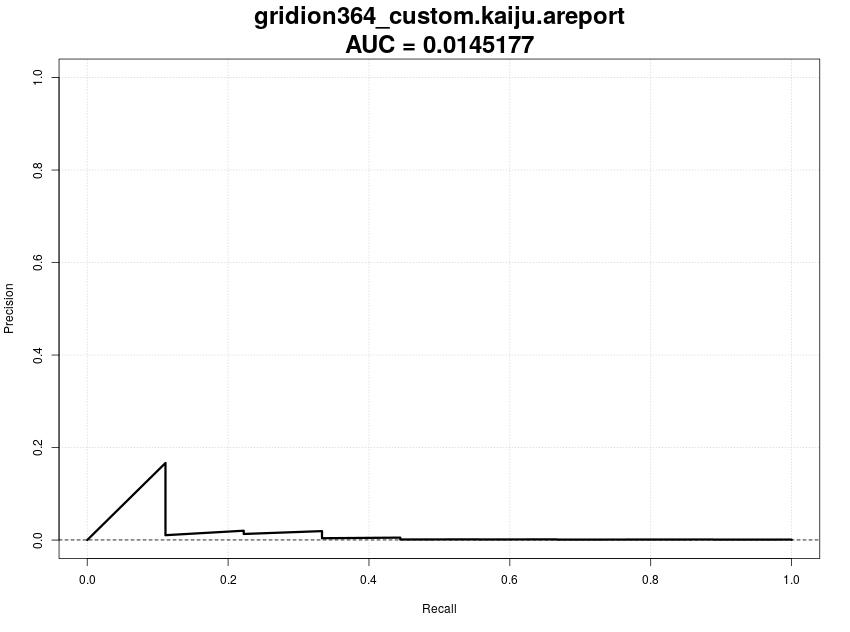
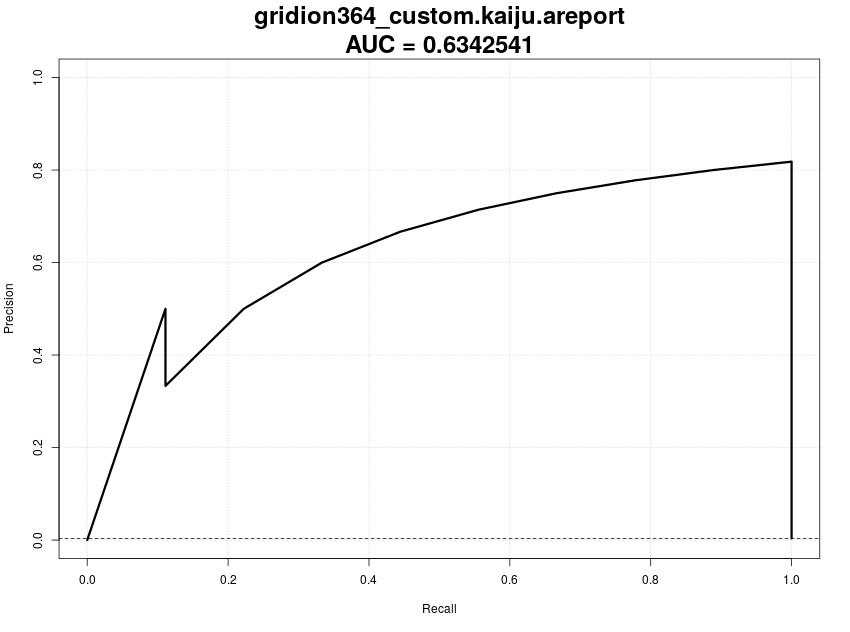
protocol

diff --git a/scripts/getting.py b/scripts/getting.py
@@ -14,7 +14,7 @@ def get_species(config): # expected species in sample
     else:
         print('Error! No config file', config)
 
-config='config.yaml' #'/home/kirscheeh/university/projectCLASSIFICATION/classificationBenchmark/config.yaml' #
+config='/home/kirscheeh/university/projectCLASSIFICATION/classificationBenchmark/config.yaml' #'config.yaml' #
 species = get_species(config)
 
 def get_path(config): #get path to working directory
@@ -196,6 +196,37 @@ def calc_accuracy(tp, fp, tn, fn):
     except ZeroDivisionError as e:
         return 0
 
+def get_tpr(tp,fp,tn,fn): #true positive rate
+    try:
+        return tp/(tp+fn)
+    except ZeroDivisionError as e:
+        return 0
 
+def get_tnr(tp,fp,tn,fn): #true negative rate
+    try:
+        return tn/(tn+fp)
+    except ZeroDivisionError as e:
+        return 0
 
+def get_balancedAcc(tpr, tnr):
+    return tpr+tnr/2
+
+def get_prediction(report, th):
+    data=[]
+    with open(report, 'r') as report:
+        lines = report.readlines()
+        for line in lines:
+            line=line.split("\t")
+
+            if line[2]=="S":
+                if line[4].split("\n")[0] in species and float(line[0])>=0.1:  
+                    data.append(1)
+                else:
+                    data.append(0)
+    return data 
+
+report=sys.argv[1]
+#config=sys.argv[2]
+tp, fp, tn, fn = calc_matrixOfConfusion(prediction=get_prediction(report, 0.1), groundTruth=get_groundTruth(report))
+print(get_balancedAcc(get_tpr(tp, fp, tn, fn), get_tnr(tp, fp, tn, fn)))
 

diff --git a/protocol/protocol.md b/protocol/protocol.md
@@ -4,19 +4,19 @@
 # Material and Methods
 ## Data
 The present dataset consists of four samples of the underlying ZymoBIOMICS Microbial Community Standards CS and CSII ([ZymoEven](https://www.zymoresearch.de/collections/zymobiomics-microbial-community-standards/products/zymobiomics-microbial-community-standard "Zymo Research Corporation, Irvine, CA, USA. Product D6300, Lot ZRC190633"), [ZymoLog](https://www.zymoresearch.de/collections/zymobiomics-microbial-community-standards/products/zymobiomics-microbial-community-standard-ii-log-distribution "Zymo Research Corporation, Irvine, CA, USA. Product D6310, Lot ZRC190842"), [DataPaper](https://doi.org/10.1093/gigascience/giz043 "Nicholls, S. M., Quick, J. C., Tang, S., & Loman, N. J. (2019). Ultra-deep, long-read nanopore sequencing of mock microbial community standards. Gigascience, 8(5), giz043.")). Those mock communities are composed of ten microbial species, eight bacteria and two fungi (Table 1). Each of these two standards is sequenced with GridION and PromethION, resulting in four samples, two for each standard. 
-|      Name                    	|       Taxonomic ID        	| CS EVEN                	|                         	| CS LOG                 	|
-|--------------------------	|--------------	|------------------------	|-------------------------	|------------------------	|
+|      Name                    	|Type|       Taxonomic ID        	| CS EVEN                	|                         	| CS LOG                 	|
+|--------------------------	|--------------	|------|------------------------	|-------------------------	|------------------------	|
 |                      	| 	| Expected Abundancy (%) 	| Estimated Abundance (%) 	| Expected Abundancy (%) 	|
-| *Bacillus subtilis*        	| 1423         	| 12                     	| 19.32 (19.02)           	| 0.89                   	|
-| *Listeria monocytogenes*   	| 1639         	| 12                     	| 14.56 (14.33)           	| 89.1                   	|
-| *Enterococcus faecalis*    	| 1351         	| 12                     	| 12.24 (12.07)           	| 0.00089                	|
-| *Staphylococcus aureus*    	| 1280         	| 12                     	| 11.28 (11.11)           	| 0.000089               	|
-| *Salmonella enterica*      	| 28901        	| 12                     	| 9.99 (10.32)            	| 0.089                  	|
-| *Escherichia coli*         	| 562          	| 12                     	| 9.93 (10.26)            	| 0.089                  	|
-| *Pseudomonas aeruginosa*   	| 287          	| 12                     	| 9.7 (10.11)             	| 8.9                    	|
-| *Lactobacillus fermentum*  	| 1613         	| 12                     	| 9.28 (9.13)             	| 0.0089                 	|
-|  *Saccharomyces cerevisiae* 	| 4932         	| 2                      	| 1.92 (1.87)             	| 0.89                   	|
-| *Cryptococcus neoformans*  	| 5207         	| 2                      	| 1.78 (1.77)             	| 0.00089                	|
+| *Bacillus subtilis*        | Gram+	| 1423         	| 12                     	| 19.32 (19.02)           	| 0.89                   	|
+| *Listeria monocytogenes*   |Gram+	| 1639         	| 12                     	| 14.56 (14.33)           	| 89.1                   	|
+| *Enterococcus faecalis*    |Gram+	| 1351         	| 12                     	| 12.24 (12.07)           	| 0.00089                	|
+| *Staphylococcus aureus*    |Gram+	| 1280         	| 12                     	| 11.28 (11.11)           	| 0.000089               	|
+| *Salmonella enterica*      |Gram-	| 28901        	| 12                     	| 9.99 (10.32)            	| 0.089                  	|
+| *Escherichia coli*         |Gram-	| 562          	| 12                     	| 9.93 (10.26)            	| 0.089                  	|
+| *Pseudomonas aeruginosa*   |Gram-	| 287          	| 12                     	| 9.7 (10.11)             	| 8.9                    	|
+| *Lactobacillus fermentum*  |Gram+	| 1613         	| 12                     	| 9.28 (9.13)             	| 0.0089                 	|
+|  *Saccharomyces cerevisiae*|Yeast 	| 4932         	| 2                      	| 1.92 (1.87)             	| 0.89                   	|
+| *Cryptococcus neoformans*  |Yeast	| 5207         	| 2                      	| 1.78 (1.77)             	| 0.00089                	|
 
 ***Tabel 1: General information about the used species.*** This table shows the different species included in the mock communities with their taxonomic ID and expected as well as estimated proportion of genome. Note that the CS Even samples have differen measured proportions for GridION (PromethION) that expected. There is no information about the measured proportions for CS Log. The information are gathered from [DataPaper](https://doi.org/10.1093/gigascience/giz043 "Nicholls, S. M., Quick, J. C., Tang, S., & Loman, N. J. (2019). Ultra-deep, long-read nanopore sequencing of mock microbial community standards. Gigascience, 8(5), giz043."), [ZymoEven](https://www.zymoresearch.de/collections/zymobiomics-microbial-community-standards/products/zymobiomics-microbial-community-standard "Zymo Research Corporation, Irvine, CA, USA. Product D6300, Lot ZRC190633") and [ZymoLog](https://www.zymoresearch.de/collections/zymobiomics-microbial-community-standards/products/zymobiomics-microbial-community-standard-ii-log-distribution "Zymo Research Corporation, Irvine, CA, USA. Product D6310, Lot ZRC190842").<br> <br>
 
@@ -45,7 +45,7 @@ Every tool is used on two different databases: The default database describes th
 |   Diamond    | 2.0.5      | Protein |        Alignment        | full Proteome Bacteria|http://www.diamondsearch.org/index.php |
 |     Kaiju    |    1.7.4        | Protein |   FM-Index, Alignment  |refseq |              http://kaiju.binf.ku.dk/               |
 |   CCMetagen  |    1.2.3        |   DNA   |*k*-mer, Alignment (KMA)| refseq |     https://github.com/vrmarcelino/CCMetagen       |
-|  Centrifuge  |    1.0.4        |   DNA   |         FM-Index       | complete genomes|https://ccb.jhu.edu/software/centrifuge/manual.shtml |
+|  Centrifuge  |    1.0.4        |   DNA   |         FM-Index       | refseq|https://ccb.jhu.edu/software/centrifuge/manual.shtml |
 |     CLARK    |    1.2.5        |   DNA   |      (spaced) *k*-mer  | refseq |         http://clark.cs.ucr.edu/Overview/          |
 |    Kraken2   | 2.0.7-beta      |   DNA   |          *k*-mer          |-|         http://ccb.jhu.edu/software/kraken2/         |
 |BugSeq| v1 | DNA | Pipeline?? |-| https://bugseq.com/free |
@@ -112,7 +112,7 @@ The custom database using the refseq of bacteria and fungi need to be created wi
 #### Centrifuge
 Centrifuge [Centrifuge](https://doi.org/10.1101%2Fgr.210641.116 "Kim, D., Song, L., Breitwieser, F. P., & Salzberg, S. L. (2016). Centrifuge: rapid and sensitive classification of metagenomic sequences. *Genome research*, 26(12), 1721-1729.") is a classification tool for metagenomic microbial data. This FM-Index-based approach searches for forward and reverse complements of the given input reads in the corresponding database of species. If a match with a given seed length is found, that region is expanded until a mismatch is found. <br>
 The used indices are downloaded from their [website](https://genome-idx.s3.amazonaws.com/centrifuge/p\_compressed_2018_4\_15.tar.gz) as of 15/01/2021. <br>
-The custom database can be created with the following command, where <tt>prefix</tt> is the prefic the index files will carry. The <tt>seqid2taxid.map</tt> file generated from Kraken2 during databse building is used. This spares the download of all sequences that should be included in the index.
+The custom database can be created with the following command, where <tt>prefix</tt> is the prefic the index files will carry. The <tt>seqid2taxid.map</tt> file generated from Kraken2 during database building is used. This spares the download of all sequences that should be included in the index.
 
     centrifuge-build -p {threads} --conversion-table {seqid2taxid.map} --taxonomy-tree {nodes.dmp} --name-table {names.dmp} {input.fna} {prefix}
 
@@ -240,21 +240,22 @@ The missing fungal sequences in the databases do not interfere with the precisio
 
 ***Table XYZ.*** This table shows the calculated Area under Precision Recall Curve for the different tools and samples using their default database. Note that CCMetagen and Diamond are not able to perform on the PromethION samples, therefore those values are missing. There is no trend to be observed regarding the AUPR and different sequencing depths. However, some tools seem to perform better with the CS Even samples (e.g. Diamond, Centrifuge, Kraken2), whereas Kaiju, CCMetagen and Clarks seem to perform better for the CS Log samples.
 
-
 |                	| Diamond   	| Kaiju     	| CCMetagen 	| Centrifuge 	| Clark     	| Kraken2   	|
 |----------------	|-----------	|-----------	|-----------	|------------	|-----------	|-----------	|
-| GridION 364    	| 0.6477213 	|  	|  	| 0.4535386     |  	| 0.6531318       	|
-| PromethION 365 	|           	|  	|           	| 0.4465851     |  	| 0.6342541       	|
-| GridION 366    	|           	|  	|  	| 0.3934339  	| | 0.6348088 	|
-| PromethION 367 	|           	|  	|           	| 0.3556934  	|  	| 0.658239 	|
+| GridION 364    	| 0.6477213 	|  0.6342541	|           	| 0.4535386     |           	| 0.6531318   	|
+| PromethION 365 	|           	|  0.355438	    |           	| 0.4465851     |           	| 0.6342541   	|
+| GridION 366    	|           	|  0.6342541 	|            	| 0.3934339  	|               | 0.6348088 	|
+| PromethION 367 	|           	|  0.4490638	|           	| 0.3556934  	|            	| 0.658239   	|
 
-***Table XYZ.*** !!!.
+***Table XYZ_2.*** This table shows the calculated Area under Precision Recall Curve for the different tools and samples using their custom database. Note that CCMetagen and Diamond are not able to perform on the PromethION samples, therefore those values are missing. !!!
 
-Considering the default database, it is visible that Centrifuge and Kraken2 do not reach the results of a perfect classifier anymore. The AUPR for the CS Even samples approach the AUPR for the CS Log samples!!!
+Considering the custom database, it is visible that Centrifuge and Kraken2 do not reach the results of a perfect classifier anymore. The AUPR for the CS Even samples approaches the AUPR for the CS Log samples. The average AUPR for all samples classified with Kraken2 is 0.645108425, whereas the average AUPR for the default database is higher with 0.842257075 (Table XYZ_2). The AUPR for Centrifuge shows a greater difference of 0.4 between default and custom database (0.80500625 and 0.41231275). Since the only change is the underlying database, this might be the reson for the poorer results. There might be more sequences to check against than in their default databases which leads to less accuracy. Although Kraken2 and Centrifuge do use refseq sequences in their corresponding default databases, the date of the index/database making might influence the known/included sequences. The index for Centrifuge ist from 2018, whereas the Kraken2 database seems to be from 2019. <br> 
+This explanation only partly fits for Diamond and Kaiju as well, because the bacterial proteome sequences are the same, just the fungal proteome is added to the databases. Although Diamond achieves less, Kaiju is able to achieve higher values for the CS Log samples. The CS Even samples result in smaller values (0.634 and 0.355 instead of 0.725 and 0.57 for GridION 264 and PromethION 265, respectively).
+
+<!-- The average balanced accuracy for Kraken2 for example is 1.0 and 0.83 respectively. <br> -->
 
 
-
-It has to be considered that only one dataset is not enough to access the results of the classification tools.
+It has to be considered that only one dataset is not enough to fully access the results of the classification tools.
 ### Abundance Profile Similarity
 | Classified Species 	| *B. subtilis*          	| *L. monocytogenes*     	| *E. faecalis*          	| *S. aureus*            	| *S. enterica*           	| *E. coli*               	| *P. aeruginosa*         	| *L. fermentum*        	| *S. cerevisiae*        	| *C. neoformans*         	|
 |--------------------	|----------------------	|----------------------	|----------------------	|----------------------	|-----------------------	|-----------------------	|-----------------------	|---------------------	|----------------------	|-----------------------	|
@@ -331,10 +332,10 @@ Centrifuge performed a slower which might be explained with the greater number o
 
 |            	| kma            	| ccmetagen      	| clark          | centrifuge           	| kaiju          	    | kraken2        	| diamond                 	|
 |------------	|----------------	|----------------	|--------------- |----------------      	|----------------    	|----------------	|-------------------------	|
-| gridion364 	|                	|                	| 	             | 5:09:32.420430       	| 3:05:24.622132 	    | 0:12:03.455402 	|         -                	|       	
-| gridion366 	|                	|                	|                | 5:31:10.976138       	|               	    | 0:12:31.477754 	|          	|       	
-| promethion365 |            -    	|                -	|                | 2 days, 6:49:22.551248   |                       | 1:26:16.939620    |         -                	|       	
-| promethion367 | -                 |-                  |                | 2 days, 3:59:35.103469   |                       |1:29:48.305022     |-                          |
+| gridion364 	|                	|                	| 	             | 5:09:32.420430       	| 3:05:24.622132 	    | 0:12:03.455402 	|  2 days, 17:38:23.548931               	|       	
+| gridion366 	|                	|                	|                | 5:31:10.976138       	| 3:12:15.641435        | 0:12:31.477754 	|          	|       	
+| promethion365 |            -    	|                -	|                | 2 days, 6:49:22.551248   | 1 day, 7:11:14.124467 | 1:26:16.939620    |         -                	|       	
+| promethion367 | -                 |-                  |                | 2 days, 3:59:35.103469   | 1 day, 3:12:06.381124 |1:29:48.305022     |-                          |
 
 ***Table Time 2: Overview of time consumption for the custom runs.*** Time is given  as hh:mm:ss and if needed, the number of days is stated explicitly in front. Cells with a dash symbolize runs that did start or took unreasonable much time to start. The time benchmarks can be found in /mnt/fass1/kirsten/result/classification/benchmarks/custom. <br> <br>
 
@@ -347,12 +348,12 @@ Although the runtime of Diamond is comparably worse, the time for database creat
 |---------	|-----	|-------	|------------------------	|--------------------	|---------	|----------------	|
 | runtime 	|     	|       	| 1 day, 14:04:24.423278 	| 0:58:52.067620     	|    ???    | 0:23:52.417193 	|
 
-***Table Time32: Overview of time consumption database creation.*** Time is given  as hh:mm:ss and if needed, the number of days is stated explicitly in front.The time benchmarks can be found in /mnt/fass1/kirsten/result/classification/benchmarks/databases. <br> <br>
+***Table Time32: Overview of time consumption database creation.*** Time is given  as hh:mm:ss and if needed, the number of days is stated explicitly in front. The time benchmarks can be found in /mnt/fass1/kirsten/result/classification/benchmarks/databases. <br> <br>
 
 The runtime of BugSeq can not be evaluated accordingly since the cloud service offers no information about the time the classification needed and no custom database is build.
 
 ## Multi Locus Sequence Typing
-The following don't consider MLST for *Saccharomyces cerevisiae* since no fitting explicit MLST scheme could be found. <br>
+The following don't consider MLST for *Saccharomyces cerevisiae* since no fitting explicit MLST scheme could be found, no paper published sequence fragments and no database included the species. <br>
 
 Blasting the housekeeping-genes against the samples revealed for each of the chose genes in evey species at least one hit. The sequence identities for GridION364 range from 88.831% to 99.045% with an average hit length of 468 nt. The hit lengths vary from 311 to 645. The greatest e-value is 7.83e-171, the majority of values is 0.0. <br>
 Considering the other CS Even sample, PromethION 365, the MLST blast shows sequences identities from 90.13% to 99.52% with an average hit length of 467 nt,which is similar to the hit length for GridION 364. The lengths vary from 308 nt to 642 nt. The average e-value is similar small with 2.200078e-143. <br>
@@ -426,6 +427,9 @@ The CS Log samples are similar as well.  Kaiju is able to assign 57.905% and 58.
 
 ***Figure 4: Classification Results for Kaiju, CS Log, Default Database*** <br> <br>
 
+Using the custom database, Kaiju achieves poorer results. Using the defaultn database results in classification of all bacterial species, this is not achieved with the custom database. For GridION 364, 64.834% of reads are not assigned to a species but another taxonomic level, whereas 3.501% are not assigned to a species that reached 1% of abundance and 12.799% of reads are unclassified. The identified species are *Listeria monocytogenes* (6.85%), *Limosilactobacillus fermentum* (5.35%). *Enterococcus faecalis* (2.371%), *Staphylococcus aureus* (1.233%), *Saccharomyces cerevisiae* (1.37%) and *Cryptococcus neoformans* (1.508%). Although not all bacterial species are idntified, the fungal species can be classified this time. The results for PromethIoN 365, the other CS Even sample, are alike with similar percentages (Table A_KaijuCustom). <br>
+In the CS Log samples, *Listeria Monocytogenes* is again the predominant species, i.e. the only species that is identified with 42.248% or reads assigned to. 44.3% or reads are not assigned to anything on species level, 10.97% are unclassified and 2.481% of reads are assigned to a species that does not reach 1% of abundance. This can be observed in PromethION as well ((Table A_KaijuCustom).
+
 ### CCMetagen
 CCMetagen uses the KMA for aligning, which is designed to map reads against redundant databases. The tool is supposed to work for large datasets, however, no classification could be done for the deep sequences samples with PromethION. KAM throws an error stating not enough space on the device. Therefore, there are only one CS Even and one CS Log sample to analyse.
 |||
@@ -435,7 +439,7 @@ CCMetagen uses the KMA for aligning, which is designed to map reads against redu
 
 ***Figure X: Classification Results for CCMetagen, CS Even, GridION, Default Database*** <br> <br>
 
-CCMetagen is not able to classify 26.736% of the reads of CS Even and 19.458% of the reads could not be assigned to a taxon on species level. The remaining reads are assigned to species with abundances between 1.795% (Enterococcus faecalis) and 16.309 (*Bacillus spizizenii*). In general, CCMetagen is able to classify 5 species correctly (Figure). *Limosilactobacillus fermentum* and *Bacillus spizizenii* are, however, close relatives to *Lactobacillus fermentum* and *Bacillus subtilis* [QUELLE]. Again, the default databse does not include fungal genomes, therefore those cannot be considered here.
+CCMetagen is not able to classify 26.736% of the reads of CS Even and 19.458% of the reads could not be assigned to a taxon on species level. The remaining reads are assigned to species with abundances between 1.795% (Enterococcus faecalis) and 16.309 (*Bacillus spizizenii*). In general, CCMetagen is able to classify 5 species correctly (Figure). *Limosilactobacillus fermentum* and *Bacillus spizizenii* are, however, close relatives to *Lactobacillus fermentum* and *Bacillus subtilis* [QUELLE]. Again, the default database does not include fungal genomes, therefore those cannot be considered here.
 
 Considering the CS Log sample sequenced with GridION, CCMetagen is able to assign 71.494% of reads to *Listeria monocytogenes* and 2.822% to *Pseudomonas aeruginosa*. 0.279% are assigned to others and 25.405% are unclassified.
 
